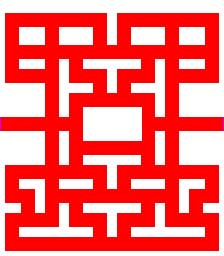
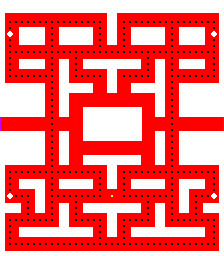
hmm

diff --git a/pacman_game.py b/pacman_game.py
@@ -1,5 +1,7 @@
 from pac import Pacman
 from ghost import Ghost
+from dot import Dot
+from pellet import Pellet
 import pygame, sys
 
 class Game():
@@ -19,12 +21,15 @@ class Game():
         self.key_down = False
 
         self.sprites = []
-        self.pac = Pacman(int(x/2), int(y/2)+13, 12, 12)
-        self.sprites.append(self.pac)
         # add the ghosts
 
         # create the data for the level
         self.heatmap = pygame.image.load("images/level1/level1_heat.png")
+        
+        self.dots = []
+        self.pellets = []
+
+        self.init_level()
 
         self.draw()
 
@@ -71,6 +76,22 @@ class Game():
             pygame.event.pump()
             self.clock.tick(15)
 
+    def init_level(self):
+        # for black squares in heatmap, add a dot
+        # for white squares in heatmap, add a pellet
+        # place pacman where the yellow square is
+        # place ghosts where their corresponding color is
+        for x in range(self.heatmap.get_width()):
+            for y in range(self.heatmap.get_height()):
+                match self.heatmap.get_at((x, y)):
+                    case [pygame.Color(0, 0, 0, 255)]:
+                        self.dots.append(Dot(x, y))
+                    case [pygame.Color(255, 255, 255, 255)]:
+                        self.pellets.append(Pellet(x, y))
+                    case [pygame.Color(255, 255, 0, 255)]:
+                        self.pac = Pacman(x, y, 12, 12)
+                        self.sprites.append(self.pac)
+
     # draw the basic level, then all the items currently on the level
     def draw_level(self):
         self.screen.blit(pygame.image.load("images/level1/level1_base.png"), (0, 0))
@@ -80,6 +101,17 @@ class Game():
         # record thier posiiton into an array of all the collectables,
         # when pman goes over that collectable, set that collectables flag to false
         # only draw the collectables that have true flags
+        for pellet in self.pellets:
+            if pellet.get_status() == True:
+                self.screen.blit(pygame.image.load("images/items/power_pellet.png"), pellet.get_position())
+
+        for dot in self.dots:
+            if dot.get_status() == True:
+                self.screen.blit(pygame.image.load("images/items/dot.png"), dot.get_position())
+
+    def update_level(self):
+        return
+
 
 if __name__ == '__main__':
     Game()

diff --git a/pac.py b/pac.py
@@ -12,6 +12,7 @@ class Pacman(Sprite):
          self.__loop_flag = 1 # come up with a better name
          self.__next_heading = None
          self.__next_speed = None
+         self.__power_mode = False
     
     def update(self, heatmap):
         # open and close cycle
@@ -88,3 +89,10 @@ class Pacman(Sprite):
         self._moving = True
         self.__heading = "w"
         self._speed = [-3, 0]
+
+    def eat_pellet(self):
+        self.__power_mode = True
+        # timer component to turn pman back?
+
+    def get_power_mode(self):
+        return self.__power_mode

diff --git a/item.py b/item.py
@@ -1,0 +1,14 @@
+class Item():
+    def __init__(self, x, y):
+        self._x = x
+        self._y = y
+        self._collected = False
+
+    def get_status(self):
+        return self._collected
+    
+    def collect(self):
+        self._collected = True
+
+    def get_position(self):
+        return self._x, self._y

diff --git a/pellet.py b/pellet.py
@@ -1,0 +1,9 @@
+from item import Item
+
+class Pellet(Item):
+    def __init__(self, x, y):
+        super().__init__(x, y)
+
+    def collect(self, actor):
+        actor.eat_pellet()
+        super().collect()

diff --git a/dot.py b/dot.py
@@ -1,0 +1,10 @@
+from item import Item
+
+class Dot(Item):
+    def __init__(self, x, y):
+        super().__init__(x, y)
+
+    def collect(self, actor):
+        super().collect()
+
+    
